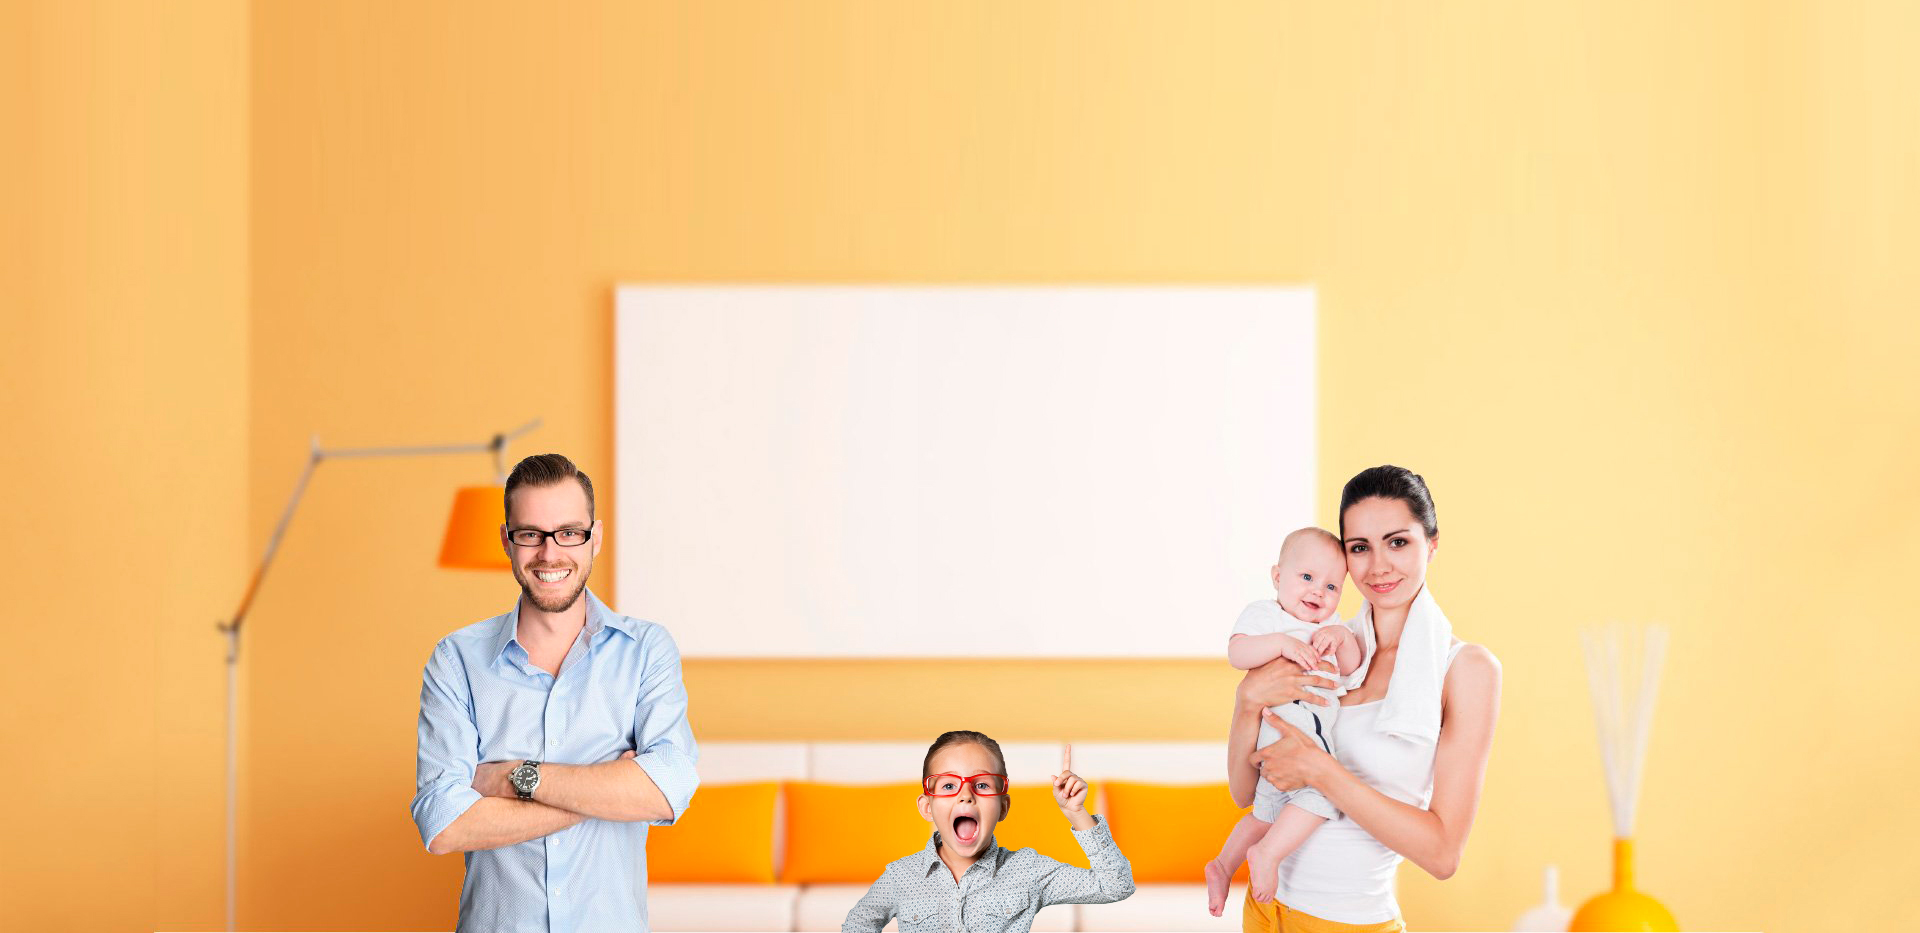
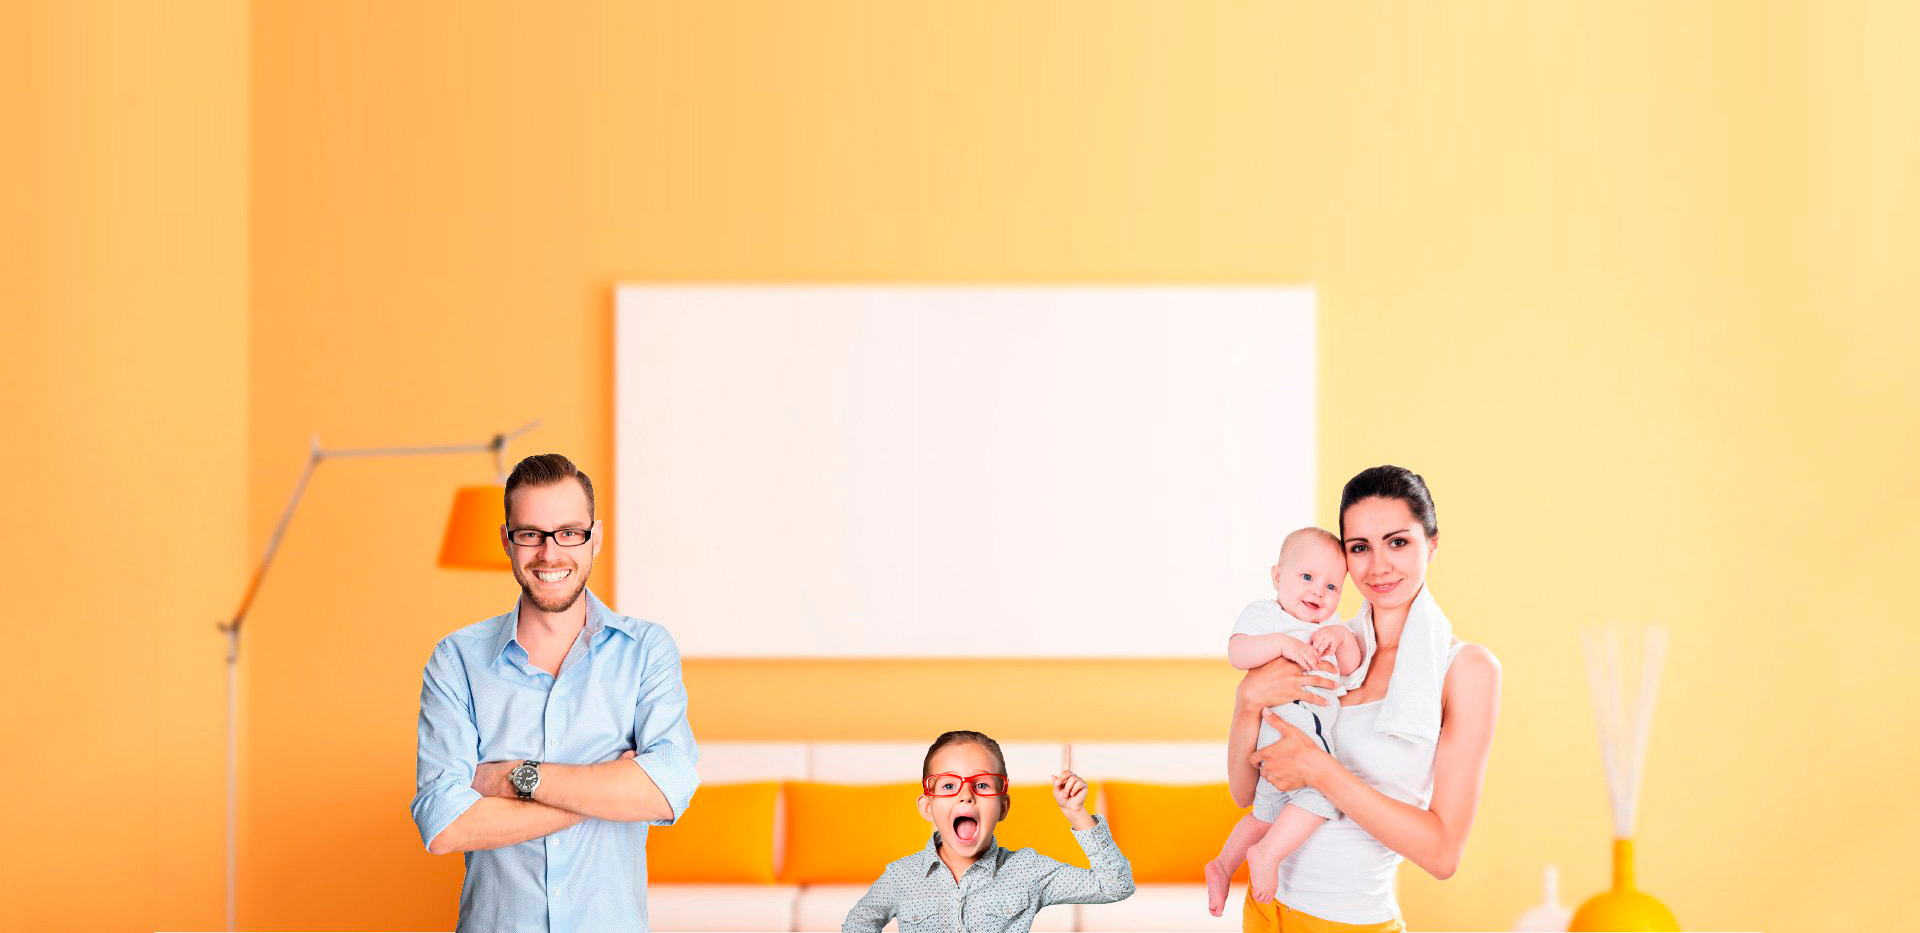
edited

diff --git a/css/media.css b/css/media.css
@@ -1855,6 +1855,13 @@
     bottom: 0;
   }
 
+  .body.body__citovir::after{
+    background: rgba(255, 203, 19);
+    background: -moz-linear-gradient(top, rgba(33, 33, 33, 0.5) 0%, rgba(255, 203, 19) 15%);
+    background: -webkit-linear-gradient(top, rgba(33, 33, 33, 0.5) 0%, rgba(255, 203, 19) 15%,rgba(255, 203, 19) 100%);
+    background: linear-gradient(to bottom, rgba(33, 33, 33, 0.5) 0%, rgba(255, 203, 19) 15%, rgba(255, 203, 19) 100%);
+  }
+
 }
 
 @media (min-width: 1440px) {
@@ -2083,6 +2090,13 @@
   .tools__item{
     padding-right: 60px;
     margin-bottom: 80px;
+  }
+
+  .body.body__citovir::after{
+    background: rgba(255, 203, 19);
+    background: -moz-linear-gradient(top, rgba(33, 33, 33, 0.5) 0%, rgba(255, 203, 19) 23%);
+    background: -webkit-linear-gradient(top, rgba(33, 33, 33, 0.5) 0%, rgba(255, 203, 19) 23%,rgba(255, 203, 19) 100%);
+    background: linear-gradient(to bottom, rgba(33, 33, 33, 0.5) 0%, rgba(255, 203, 19) 23%, rgba(255, 203, 19) 100%);
   }
 
 }

diff --git a/css/main.css b/css/main.css
@@ -113,8 +113,8 @@ body.body__ppoj{
     height: 100%;
     background: rgba(255, 203, 19);
     background: -moz-linear-gradient(top, rgba(33, 33, 33, 0.5) 0%, rgba(255, 203, 19) 33%);
-    background: -webkit-linear-gradient(top, rgba(33, 33, 33, 0.5) 0%, rgba(255, 203, 19) 6%,rgba(255, 203, 19) 100%);
-    background: linear-gradient(to bottom, rgba(33, 33, 33, 0.5) 0%, rgba(255, 203, 19) 6%, rgba(255, 203, 19) 100%);
+    background: -webkit-linear-gradient(top, rgba(33, 33, 33, 0.5) 0%, rgba(255, 203, 19) 4%,rgba(255, 203, 19) 100%);
+    background: linear-gradient(to bottom, rgba(33, 33, 33, 0.5) 0%, rgba(255, 203, 19) 4%, rgba(255, 203, 19) 100%);
 }
 
 .body.body__geroi::after{

diff --git a/case-citovir.html b/case-citovir.html
@@ -180,7 +180,7 @@
           </div>
         </div>
 
-        <!-- <div class="cases">
+        <div class="cases">
           <div class="container">
             <div class="case__slider">
               <div class="case__slider--item">
@@ -252,7 +252,7 @@
               </div>
             </div>
           </div>
-        </div> -->
+        </div>
 
       </main>
 
